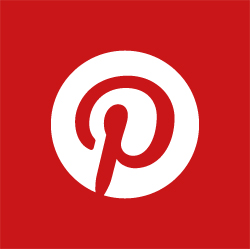
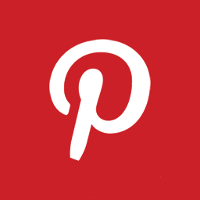
Changed the dropdown selector
Dropwdown deleted, now a three-button-group

Replaced the image with open source image

Changed region(s): [[0.18, 0.24, 0.81, 0.81], [0.36, 0.18, 0.69, 0.27], [0.69, 0.27, 0.72, 0.3]]

diff --git a/ZONE-watcher/app/assets/javascripts/advanced_search.js b/ZONE-watcher/app/assets/javascripts/advanced_search.js
@@ -3,12 +3,6 @@
 //General ID for the filters that the user pick
 idRowFiltering = 0;
 
-//Change the dropdown selector for the filtering
-function changeDropdownKeyword(keyword) {
-	$('#dropdownKeyword').text(keyword);
-	$('#dropdownKeyword').val(keyword);
-}
-
 //Add a filter to the list of filter
 function addFilter() {
 	if ($('#keyword').val() == "") {
@@ -17,15 +11,17 @@ function addFilter() {
 	var id = 1;
 	var classtr = "";
 	//Choose the class of the line of the table ( red for WITHOUT, blue for OR, green for AND)
-	if ($('#dropdownKeyword').val() == "ET") {
+	if ($('#btnAND').hasClass('active') || $('#btnWITH').hasClass('active')) {
 		id = 1;
 		classtr = 'success';
-	} else if ($('#dropdownKeyword').val() == "OU" || $('#dropdownKeyword').val() == "AVEC") {
+	} else if ($('#btnOR').hasClass('active')) {
 		id = 0;
 		classtr = 'info';
-	} else if ($('#dropdownKeyword').val() == "SANS") {
+	} else if ($('#btnWITHOUT').hasClass('active')) {
 		id = 2;
 		classtr = 'error';
+	} else{
+		return false;
 	}
 
 	//Add the related word to the keyword
@@ -37,12 +33,9 @@ function addFilter() {
 	});
 	
 	
-	var attr = $('#dropdownKeyword').val();
+	var attr = getAttrSelected();
 	
-	//Change the dropdwonselector ( take away WITH and WITHOUT and put AND, OR , WITHOUT instead)
-	if ($('#filteringTable tr').length == 1)
-		$('.dropdownKeywordFiltering').html('<li onclick="changeDropdownKeyword(\'OU\')">OU</li><li onclick="changeDropdownKeyword(\'ET\')">ET</li><li onclick="changeDropdownKeyword(\'SANS\')">SANS</li>');
-	
+		
 	//Add the line to the table
 	$('#filteringTable').append('<tr id="idrow' + idRowFiltering + '" class="' + classtr + '"><td hidden>' + id + '</td><td class="tdkey">' + attr + '</td><td class="span3"><div class="tdval span9 breakword">' + motcle + '</div><button class="btn btn-danger pull-right"  onclick="removelinefiltrage(\'idrow' + idRowFiltering + '\')"><i class="icon-remove"></i></button></td></tr>');
 	idRowFiltering += 1;
@@ -52,19 +45,36 @@ function addFilter() {
 	
 	//Write the filter in the easy-box
 	getFilter();
+	
+	//Change the dropdwonselector ( take away WITH and WITHOUT and put AND, OR , WITHOUT instead)
+	checkDropdown();
 }
 
+//Return the title of the button selected ( WITH, WITHOUT, AND, OR)
+function getAttrSelected(){
+	if ($('#btnAND').hasClass('active')) return $('#btnAND').prop('title');
+	if ($('#btnWITH').hasClass('active')) return $('#btnWITH').prop('title');
+	if ($('#btnOR').hasClass('active')) return $('#btnOR').prop('title');
+	if ($('#btnWITHOUT').hasClass('active')) return $('#btnWITHOUT').prop('title');
+}
+
+//Disabled or not the OR button and hide or show the AND/WITH button, depending if it's the first line of filter or not
+function checkDropdown(){
+	if ($('#filteringTable tr').length > 1){
+		$('#btnOR').prop('disabled',false);	
+		$('#btnWITH').addClass('hidden');
+		$('#btnAND').removeClass('hidden');	
+	}else{
+		$('#btnOR').prop('disabled',true);	
+		$('#btnWITH').removeClass('hidden');
+		$('#btnAND').addClass('hidden');
+	}
+}
 //Reset the dropdown selector and the table of related word
 function rebootFiltering() {
 	$('#keyword').val('');
-	if ($('#filteringTable tr').length == 1) {
-		$('#dropdownKeyword').text("AVEC");
-		$('#dropdownKeyword').val("AVEC");
-	} else {
-		$('#dropdownKeyword').text("OU");
-		$('#dropdownKeyword').val("OU");
-	}
-
+	checkDropdown();	
+		
 	unselect();
 	$('#keywordTable tbody > tr').each(function() {
 		$(this).remove();
@@ -103,9 +113,8 @@ function removelinefiltrage(line) {
 	//Set the filter in the easy-filter box
 	getFilter();
 
-	if ($('#filteringTable tr').length == 1)
-		$('.dropdownKeywordFiltering').html('<li onclick="changeDropdownKeyword(\'AVEC\')">AVEC</li><li onclick="changeDropdownKeyword(\'SANS\')">SANS</li>');
-
+	checkDropdown();
+	
 	rebootFiltering();
 }
 
@@ -140,11 +149,11 @@ function addRowSourceTable(Form) {
 	//Pick the icon corresponding to the source ( twitter, g+, rss,...)
 	var tdicone = "";
 	if (Form == "#formTwitter")
-		tdicone = '<td><img class="littleCircleImage sortable" src="/assets/foregroundTwitter.jpg" width="40" height="40";/><input class="valSource" type="hidden" value="twitter"></td>';
+		tdicone = '<td><img class="littleCircleImage sortable" src="/assets/foregroundTwitter.png" width="40" height="40";/><input class="valSource" type="hidden" value="twitter"></td>';
 	else if (Form == "#formGoogle")
-		tdicone = '<td><img class="littleCircleImage sortable" src="/assets/foregroundGoogle.jpg" width="40" height="40";/><input class="valSource" type="hidden" value="google"></td>';
+		tdicone = '<td><img class="littleCircleImage sortable" src="/assets/foregroundGoogle.png" width="40" height="40";/><input class="valSource" type="hidden" value="google"></td>';
 	else if (Form == "#formRSS")
-		tdicone = '<td><img class="littleCircleImage sortable" src="/assets/foregroundRSS.jpg" width="40" height="40";/><input class="valSource" type="hidden" value="rss"></td>';
+		tdicone = '<td><img class="littleCircleImage sortable" src="/assets/foregroundRSS.png" width="40" height="40";/><input class="valSource" type="hidden" value="rss"></td>';
 
 	var text = "";
 	var tdsource = "";
@@ -187,11 +196,11 @@ function addAllSourceTable(Form) {
 	
 	//Pick the icon corresponding to the source ( twitter, g+, rss,...)
 	if (Form == "formTwitter")
-		tdicone = '<td><img class="littleCircleImage sortable" src="/assets/foregroundTwitter.jpg" width="40" height="40";/><input class="valSource" type="hidden" value="twitter"></td>';
+		tdicone = '<td><img class="littleCircleImage sortable" src="/assets/foregroundTwitter.png" width="40" height="40";/><input class="valSource" type="hidden" value="twitter"></td>';
 	else if (Form == "formGoogle")
-		tdicone = '<td><img class="littleCircleImage sortable" src="/assets/foregroundGoogle.jpg" width="40" height="40";/><input class="valSource" type="hidden" value="google"></td>';
+		tdicone = '<td><img class="littleCircleImage sortable" src="/assets/foregroundGoogle.png" width="40" height="40";/><input class="valSource" type="hidden" value="google"></td>';
 	else if (Form == "formRSS")
-		tdicone = '<td><img class="littleCircleImage sortable" src="/assets/foregroundRSS.jpg" width="40" height="40";/><input class="valSource" type="hidden" value="rss"></td>';
+		tdicone = '<td><img class="littleCircleImage sortable" src="/assets/foregroundRSS.png" width="40" height="40";/><input class="valSource" type="hidden" value="rss"></td>';
 
 	var tdsource = "<td><i><div class='breakword' style='float:left'>Toutes les sources</div></i>";
 
@@ -239,9 +248,10 @@ function rebootGeneralModal() {
 	
 	rebootSourceTable();
 
-	rebootFiltering();
+	
 	rebootFilteringTable();
 	rebootKeywordTable();
+	rebootFiltering();
 
 	getFilter();
 
@@ -249,13 +259,6 @@ function rebootGeneralModal() {
 	$('#Filtering').removeClass('active');
 
 	setButtonNextTab();
-	
-	if ($('#filteringTable tr').length == 1){
-		$('.dropdownKeywordFiltering').html('<li onclick="changeDropdownKeyword(\'AVEC\')">AVEC</li><li onclick="changeDropdownKeyword(\'SANS\')">SANS</li>');
-		$('#dropdownKeyword').text("AVEC");
-		$('#dropdownKeyword').val("AVEC");
-	}
-
 }
 
 //Change the button that switch tab ( put everything ready to go to next tab)
